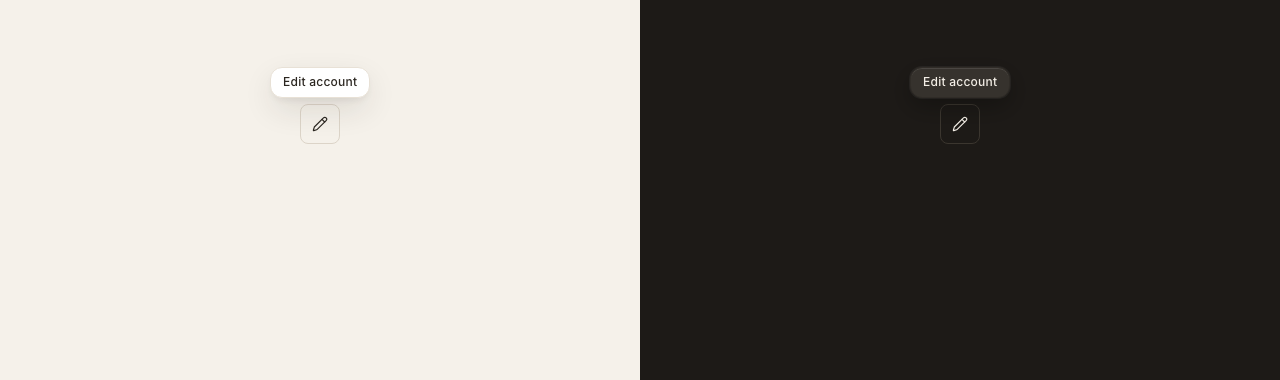
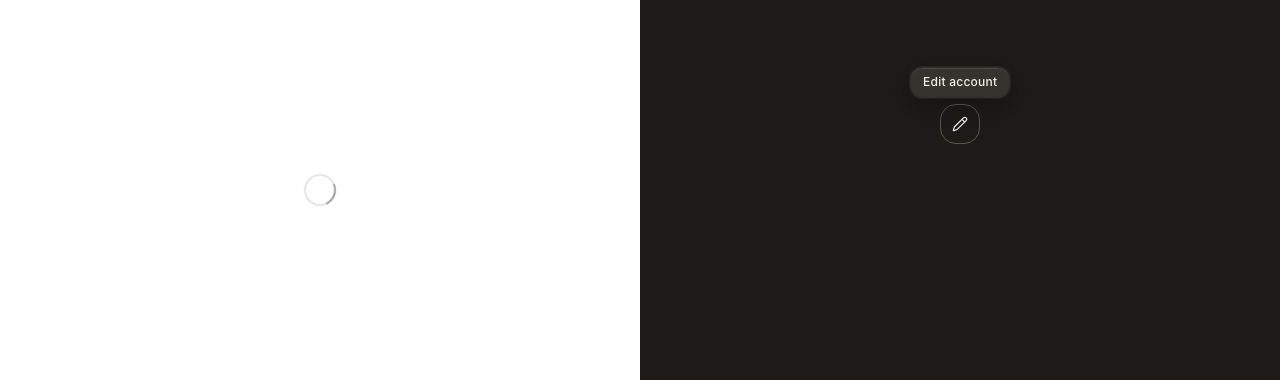
feat(ui): InfoTip uses IconButton; refresh screenshots (E15 T2.7)

Changed region(s): [[0.1875, 0.1447, 0.3125, 0.3474]]

diff --git a/packages/ui/src/primitives/InfoTip/InfoTip.styles.ts b/packages/ui/src/primitives/InfoTip/InfoTip.styles.ts
@@ -1,33 +1,33 @@
 import { cva } from "../../../styled-system/css";
 
 /**
- * Local trigger styling (a plain button). Later swap: use `IconButton` (size sm, variant ghost)
- * once it is on main; keep the same aria-label and Popover wiring.
+ * Compact inline sizing layered on `IconButton` (ghost, sm). `&&` raises specificity so these win
+ * over the button's own size classes regardless of stylesheet order.
  */
 export const infoTipTriggerRecipe = cva({
   base: {
-    display: "inline-flex",
-    alignItems: "center",
-    justifyContent: "center",
-    width: "24px",
-    height: "24px",
-    padding: 0,
     verticalAlign: "middle",
-    background: "none",
-    border: "none",
     borderRadius: "full",
-    color: "text.muted",
-    cursor: "pointer",
-    flexShrink: 0,
-    _hover: { color: "text.primary", backgroundColor: "surface.subtle" },
-    "&[data-state='open']": { color: "primary", backgroundColor: "primary.subtle" },
-    _focusVisible: {
-      outline: "2px solid",
-      outlineColor: "border.focusRing",
-      outlineOffset: "2px",
+    "&&": {
+      width: "24px",
+      height: "24px",
+      padding: "0",
+      minWidth: "0",
+      minHeight: "0",
+      color: "text.muted",
     },
+    "&&:hover": { color: "text.primary" },
+    "&&[data-state='open']": { color: "primary", backgroundColor: "primary.subtle" },
     // Keep a 44px touch target on touch devices.
-    "@media (pointer: coarse)": { width: "44px", height: "44px", margin: "-10px" },
+    "@media (pointer: coarse)": {
+      "&&": {
+        width: "touch",
+        height: "touch",
+        minWidth: "touch",
+        minHeight: "touch",
+        margin: "-10px",
+      },
+    },
   },
 });
 

diff --git a/packages/ui/src/primitives/InfoTip/InfoTip.tsx b/packages/ui/src/primitives/InfoTip/InfoTip.tsx
@@ -1,6 +1,7 @@
 import { Info } from "lucide-react";
 import type { FC, ReactNode } from "react";
 import { cx } from "../../../styled-system/css";
+import { IconButton } from "../Button";
 import { Icon } from "../Icon";
 import { Popover, type PopoverProps } from "../Popover";
 import { infoTipDefinitionRecipe, infoTipTriggerRecipe } from "./InfoTip.styles";
@@ -50,13 +51,14 @@ export const InfoTip: FC<InfoTipProps> = ({
     onOpenChange={onOpenChange}
     id={id}
     trigger={
-      <button
-        type="button"
-        aria-label={label ?? `About ${term}`}
+      <IconButton
+        label={label ?? `About ${term}`}
+        size="sm"
+        variant="ghost"
         className={cx(infoTipTriggerRecipe(), className)}
       >
         <Icon icon={Info} size="sm" />
-      </button>
+      </IconButton>
     }
   >
     <p className={infoTipDefinitionRecipe()}>{children}</p>
